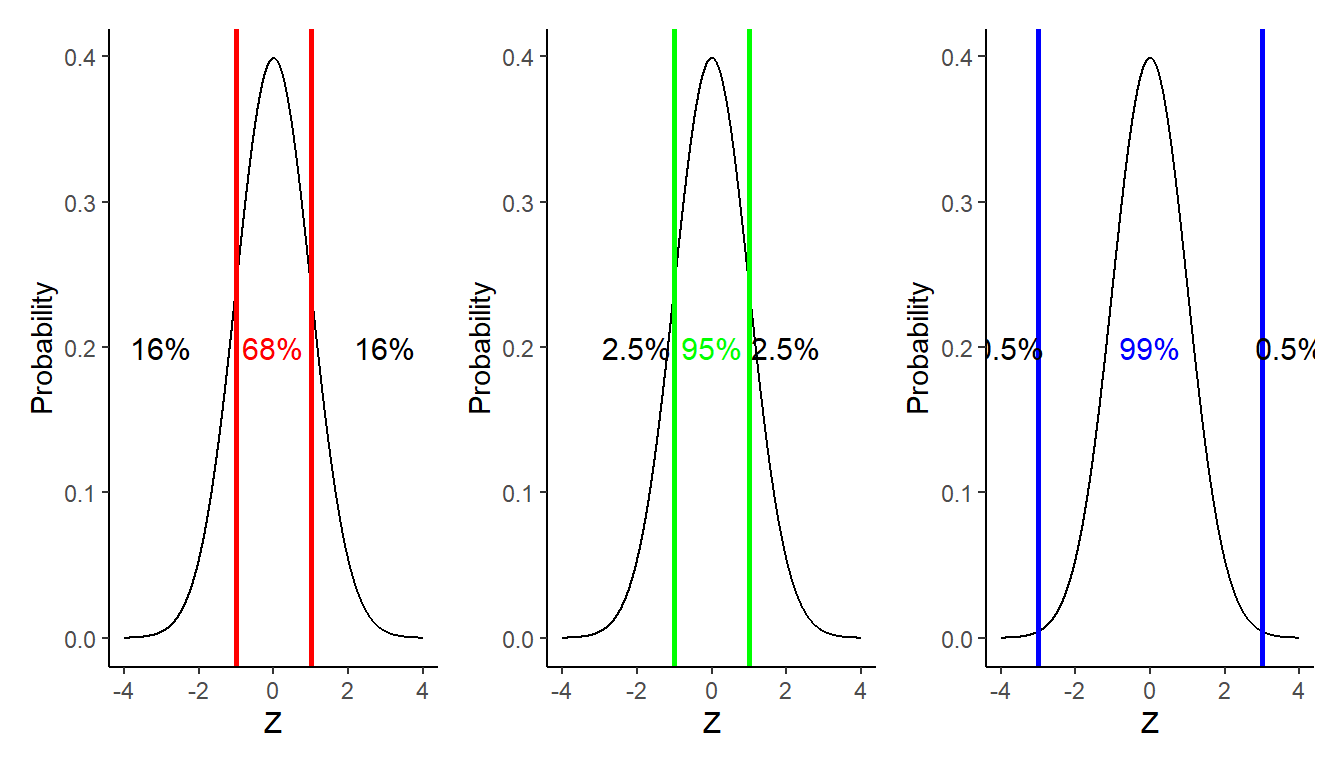
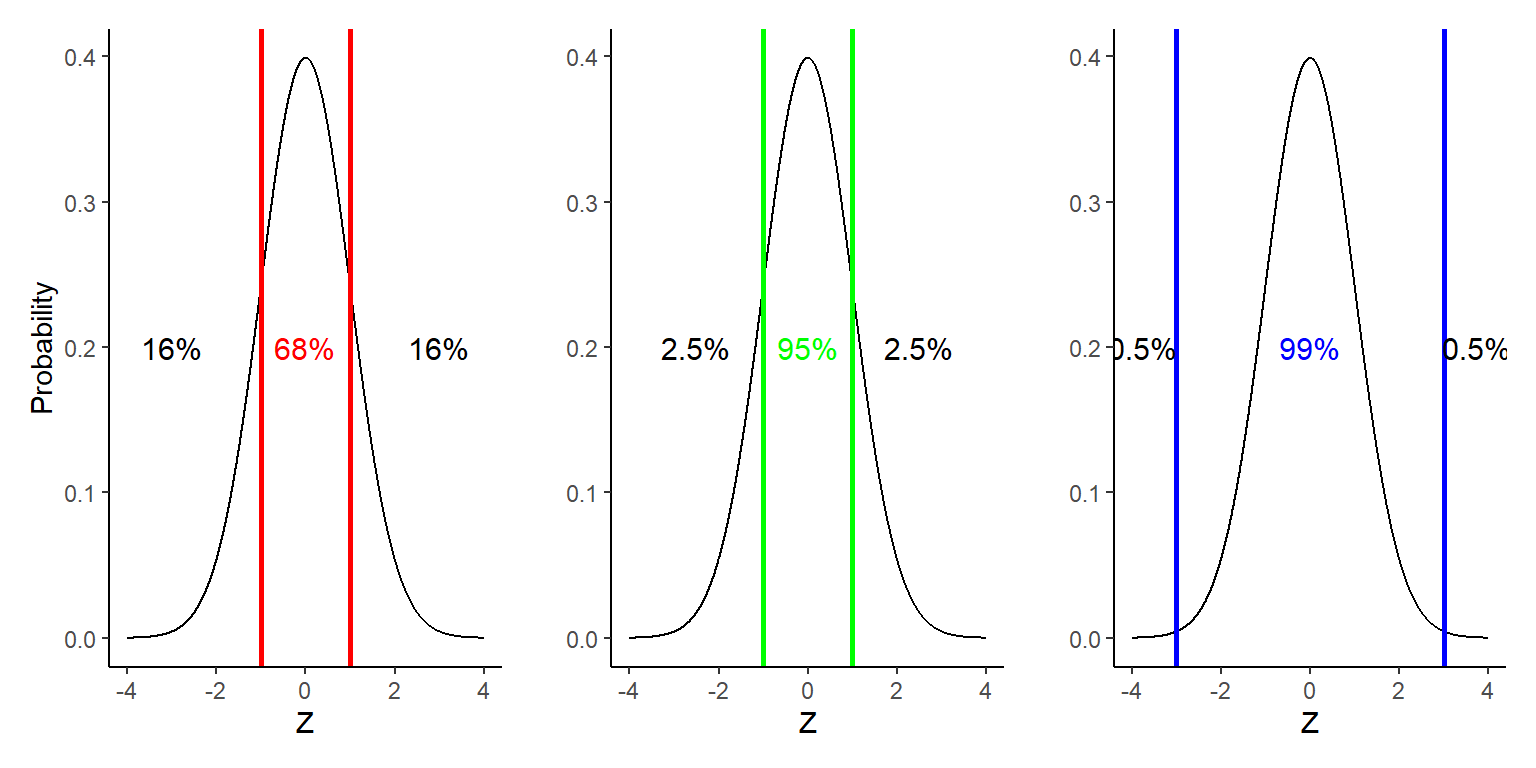
Built site for gh-pages

diff --git a/02_sampling_distributions.html b/02_sampling_distributions.html
@@ -1139,7 +1139,7 @@ The probability distribution is known for the <span class="math inline">\(z\)</s
 <div class="cell-output-display">
 <div>
 <figure class="figure">
-<p><img src="02_sampling_distributions_files/figure-html/unnamed-chunk-45-1.png" class="img-fluid figure-img" width="672"></p>
+<p><img src="02_sampling_distributions_files/figure-html/unnamed-chunk-45-1.png" class="img-fluid figure-img" width="768"></p>
 </figure>
 </div>
 </div>
